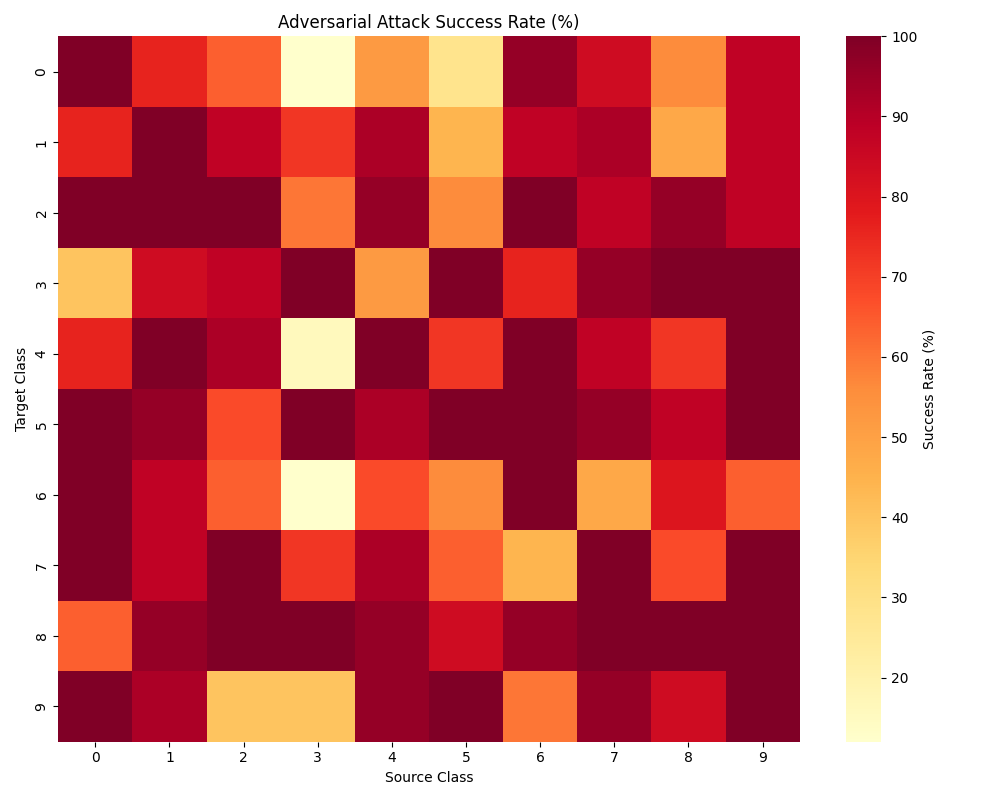
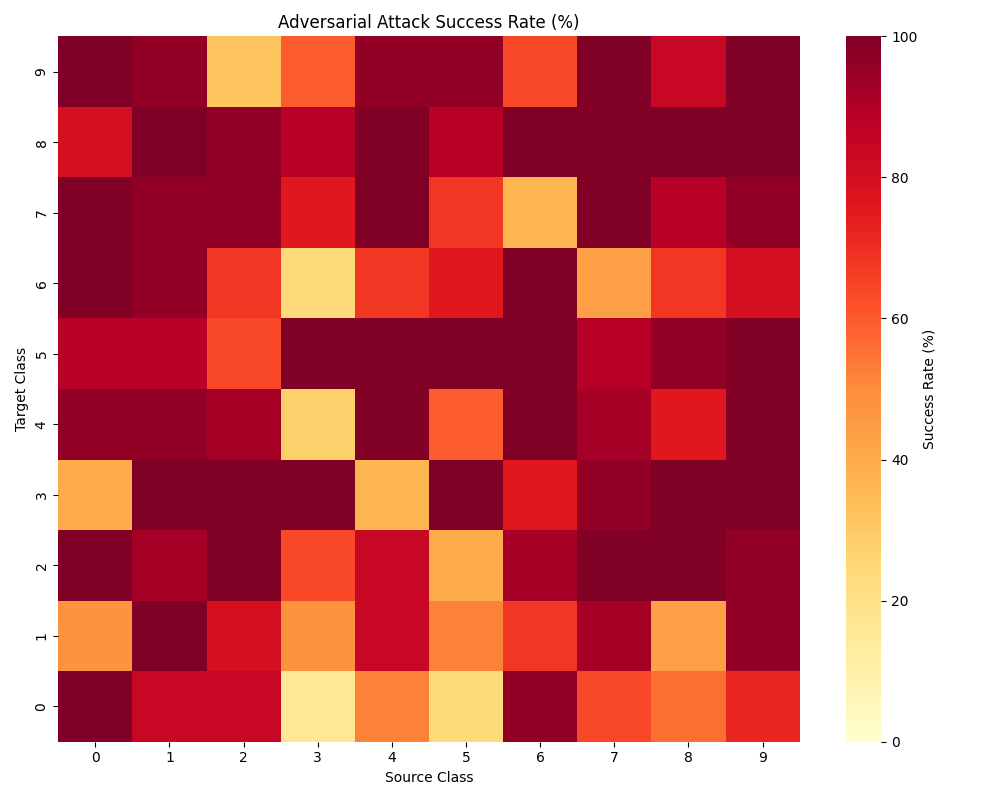
added ability to reset input image

diff --git a/testing.py b/testing.py
@@ -15,84 +15,160 @@ from PIL import Image, ImageTk
 from matplotlib.figure import Figure 
 from matplotlib.backends.backend_tkagg import (FigureCanvasTkAgg,  
 NavigationToolbar2Tk) 
+import pickle
+import os
+import time
 
-# Load in the MNIST dataset
-print("Loading MNIST dataset...")
-(x_train, y_train), (x_test, y_test) = tf.keras.datasets.mnist.load_data()
-
-# Initialize model
 convolutional = False
-print("Loading the trained model...")
-if convolutional:
-    model = tf.keras.models.load_model('cnn_model.keras')
+
+if not convolutional and os.path.exists("mlp_success.pkl") and os.path.exists("mlp_distortion.pkl") and os.path.exists("mlp_time.pkl"):
+    print("loading data!")
+    with open("mlp_success.pkl", "rb") as f:
+        success_matrix = pickle.load(f)
+    with open("mlp_distortion.pkl", "rb") as f:
+        pixels_matrix = pickle.load(f)
+    with open("mlp_time.pkl", "rb") as f:
+        time_matrix = pickle.load(f)
+elif convolutional and os.path.exists("cnn_success.pkl") and os.path.exists("cnn_distortion.pkl") and os.path.exists("cnn_time.pkl"):
+    print("loading data!")
+    with open("cnn_success.pkl", "rb") as f:
+        success_matrix = pickle.load(f)
+    with open("cnn_distortion.pkl", "rb") as f:
+        pixels_matrix = pickle.load(f)
+    with open("cnn_time.pkl", "rb") as f:
+        time_matrix = pickle.load(f)
+
 else:
-    model = tf.keras.models.load_model('mlp_model.keras')
+    # Load in the MNIST dataset
+    print("Loading MNIST dataset...")
+    (x_train, y_train), (x_test, y_test) = tf.keras.datasets.mnist.load_data()
 
-# Normalize and reshape data
-x_train, x_test = x_train / 255.0, x_test / 255.0
+    # Initialize model
+    #convolutional = False
+    print("Loading the trained model...")
+    if convolutional:
+        model = tf.keras.models.load_model('cnn_model.keras')
+    else:
+        model = tf.keras.models.load_model('mlp_model.keras')
 
-# Data processing
-if convolutional:
-    x_train = x_train.reshape((-1,28,28,1))
-    x_test = x_test.reshape((-1,28,28,1))
-else:
-    x_train = x_train.reshape(-1, 784)
-    x_test = x_test.reshape(-1, 784)
+    # Normalize and reshape data
+    x_train, x_test = x_train / 255.0, x_test / 255.0
 
-# # Initialize GUI
-root = tk.Tk()
-root.title("Adversarial Attacks")
-width= root.winfo_screenwidth()               
-height= root.winfo_screenheight()               
-root.geometry("%dx%d" % (width, height))
+    # Data processing
+    if convolutional:
+        x_train = x_train.reshape((-1,28,28,1))
+        x_test = x_test.reshape((-1,28,28,1))
+    else:
+        x_train = x_train.reshape(-1, 784)
+        x_test = x_test.reshape(-1, 784)
 
-# Initialize necessary variables
-success_matrix = [[0 for i in range(10)] for j in range(10)]
-digit_indices = [np.where(y_test == digit)[0] for digit in range(10)]
-epsilon = 0.5
+    # # Initialize GUI
+    root = tk.Tk()
+    root.title("Adversarial Attacks")
+    width= root.winfo_screenwidth()               
+    height= root.winfo_screenheight()               
+    root.geometry("%dx%d" % (width, height))
 
-# test_indices = np.random.choice(digit_indices[0], size=25, replace=False)
-# for element in test_indices:
-#     print("Index ", element, " has classification ", y_test[element])
-
-# Loop to go through 25 combinations for each source/target pair
-for source_class in range(10):
-    for target_class in range(10):
-        if source_class == target_class:
-            success_matrix[source_class][target_class] = 25
-        else:
-            # get 25 random samples from the loaded MNIST dataset
-            test_indices = np.random.choice(digit_indices[source_class], size=25, replace=False)
-
-            # for each input sample, test if attack was successful
-            for index in test_indices:
-                input = np.expand_dims(x_test[index], axis=0)
-                #print(input.shape)
-                # adversarial_image, num_pixels_changed= create_adversarial_example_saliency(root, model, input, y_test[index],
-                                                                    # target_class, epsilon, 0, convolutional)
-                adversarial_image, num_pixels_changed = create_adversarial_example_saliency_test(model, input, target_class,
-                                                             epsilon, convolutional)
-
-                # get prediction on adversarial image
-                adv_pred, adv_probs = predict_sample(model, adversarial_image)
-                #print(adv_pred, " versus ", target_class)
+    # Initialize necessary variables
+    success_matrix = [[0 for i in range(10)] for j in range(10)]
+    pixels_matrix =  [[0 for i in range(10)] for j in range(10)]
+    time_matrix =  [[0 for i in range(10)] for j in range(10)]
+    digit_indices = [np.where(y_test == digit)[0] for digit in range(10)]
+    epsilon = 1.0
     
-                if adv_pred == target_class:
-                    success_matrix[source_class][target_class] += 1
-                    print(f"Sample #{index} was a success")
-                else:
-                    print(f"Sample #{index} was a failure")
-            # Percent of successes out of 25
-            print(f"{source_class} was able to be forced to {target_class} successfully {success_matrix[source_class][target_class]*4}% of the time!")
 
-# Generate visual
+
+    # test_indices = np.random.choice(digit_indices[0], size=25, replace=False)
+    # for element in test_indices:
+    #     print("Index ", element, " has classification ", y_test[element])
+
+    # Loop to go through 25 combinations for each source/target pair
+    for source_class in range(10):
+        for target_class in range(10):
+            if source_class == target_class:
+                success_matrix[source_class][target_class] = 25
+            else:
+                # get 25 random samples from the loaded MNIST dataset
+                test_indices = np.random.choice(digit_indices[source_class], size=25, replace=False)
+
+                # for each input sample, test if attack was successful
+                for index in test_indices:
+                    input = np.expand_dims(x_test[index], axis=0)
+                    #print(input.shape)
+                    # adversarial_image, num_pixels_changed= create_adversarial_example_saliency(root, model, input, y_test[index],
+                                                                        # target_class, epsilon, 0, convolutional)
+                    start = time.time()
+                    adversarial_image, num_pixels_changed = create_adversarial_example_saliency_test(model, input, target_class,
+                                                                epsilon, convolutional)
+                    end = time.time()
+
+                    # get prediction on adversarial image
+                    adv_pred, adv_probs = predict_sample(model, adversarial_image)
+                    #print(adv_pred, " versus ", target_class)
+
+                    if adv_pred == target_class:
+                        success_matrix[source_class][target_class] += 1
+                        pixels_matrix[source_class][target_class] += num_pixels_changed
+                        time_matrix[source_class][target_class] = end-start
+                        print(f"Sample #{index} was a success")
+                    else:
+                        print(f"Sample #{index} was a failure")
+                # Percent of successes out of 25
+                print(f"{source_class} was able to be forced to {target_class} successfully {success_matrix[source_class][target_class]*4}% of the time!")
+    # calculate distortion percentage
+    # Initialize result matrix with zeros
+    success_matrix = np.array(success_matrix, dtype=float)
+    pixels_matrix = np.array(pixels_matrix, dtype=float)
+    time_matrix = np.array(time_matrix, dtype=float)
+
+    if not convolutional:
+        with open("mlp_success.pkl", "wb") as f:
+            pickle.dump(success_matrix, f)
+        with open("mlp_distortion.pkl", "wb") as f:
+            pickle.dump(pixels_matrix, f)
+        with open("mlp_time.pkl", "wb") as f:
+            pickle.dump(time_matrix, f)
+    else:
+        with open("cnn_success.pkl", "wb") as f:
+            pickle.dump(success_matrix, f)
+        with open("cnn_distortion.pkl", "wb") as f:
+            pickle.dump(pixels_matrix, f)
+        with open("cnn_time.pkl", "wb") as f:
+            pickle.dump(time_matrix, f)
+
+
 success_percent = (np.array(success_matrix) / 25.0) * 100
 success_percent = success_percent.T
+
+# # Create a mask where success_matrix is not zero
+# mask = success_matrix != 0
+
+# distortion_percent = np.zeros_like(pixels_matrix, dtype=float)
+# distortion_percent[mask] = (pixels_matrix[mask] / success_matrix[mask]) / 784
+# time_difference = np.zeros_like(time_matrix, dtype=float)
+# time_difference[mask] = (time_matrix[mask] / success_matrix[mask])
+average_time = np.sum(time_matrix) / np.sum(success_matrix)
+average_distortion = (np.sum(pixels_matrix) / np.sum(success_matrix)) / 784
+
+# Print stats:
+print("Average time for attacks was ", average_time)
+print("Average distortion for attacks was ", average_distortion)
+print("Attack success rate was ", np.sum(success_matrix)/2500)
+
+# # Generate visual
+success_percent = (np.array(success_matrix) / 25.0) * 100
+success_percent = success_percent.T
+
+
+
 
 classes = [str(i) for i in range(10)]
 
 plt.figure(figsize=(10, 8))
-ax = sns.heatmap(success_percent, annot=False, fmt=".0f", cmap="YlOrRd", xticklabels=classes, yticklabels=classes, cbar_kws={'label': 'Success Rate (%)'})
+ax = sns.heatmap(success_percent, annot=False, fmt=".0f", cmap="YlOrRd", xticklabels=classes, yticklabels=classes, vmin=0, vmax=100, cbar_kws={'label': 'Success Rate (%)'})
+ax.invert_yaxis()
+# Force color bar range from 0 to 100
+#ax.collections[0].colorbar.set_clim(0, 100)
 
 # Labels and titles
 plt.xlabel("Source Class")
@@ -100,6 +176,8 @@ plt.ylabel("Target Class")
 plt.title("Adversarial Attack Success Rate (%)") #\n(25 attempts per pair)"
 plt.tight_layout()
 plt.show()
+
+
 
     
 

diff --git a/main.py b/main.py
@@ -1318,9 +1318,9 @@ def main():
                                      justify="center", background="gray", fg="black")#.grid(column=0, row=0)
         instruction_label.pack(pady=5)
         iterate_var = tk.BooleanVar(value = False)
-        radio_specific = Radiobutton(iterate_option_frame, text="Test specific epsilon", variable=iterate_var, value=False, bg="gray", fg="black", font=("Arial", 20, "bold"), command=on_radio_change)
+        radio_specific = Radiobutton(iterate_option_frame, text="Fixed-Epsilon Attack", variable=iterate_var, value=False, bg="gray", fg="black", font=("Arial", 20, "bold"), command=on_radio_change)
         radio_specific.pack()
-        radio_iterate = Radiobutton(iterate_option_frame, text="Iterate through epsilons", variable=iterate_var, value=True, bg="gray", fg="black", font=("Arial", 20, "bold"), command=on_radio_change)
+        radio_iterate = Radiobutton(iterate_option_frame, text="Iteratative-Epsilon Attack", variable=iterate_var, value=True, bg="gray", fg="black", font=("Arial", 20, "bold"), command=on_radio_change)
         radio_iterate.pack()
         parameter_select_frame = Frame(parameter_panel, relief="sunken", bd=2, background="gray")
         parameter_select_frame.pack(expand=True,fill="both")
@@ -1505,6 +1505,10 @@ def main():
         axes.set_title(f"Input Image")
         axes.axis('off')
         im = axes.imshow(input_image.reshape(28, 28), cmap='gray')
+
+        reset_btn = Button(input_panel, text="Reset Image", command=lambda: load_menu(),
+                  bg="white", fg="black", bd=2, highlightthickness=0, relief="solid", font=("Arial", 20, "bold"))
+        reset_btn.pack(side='bottom', anchor='s', fill='x')
 
     def first_load_menu(conv, train):
         nonlocal convolutional, train_model
